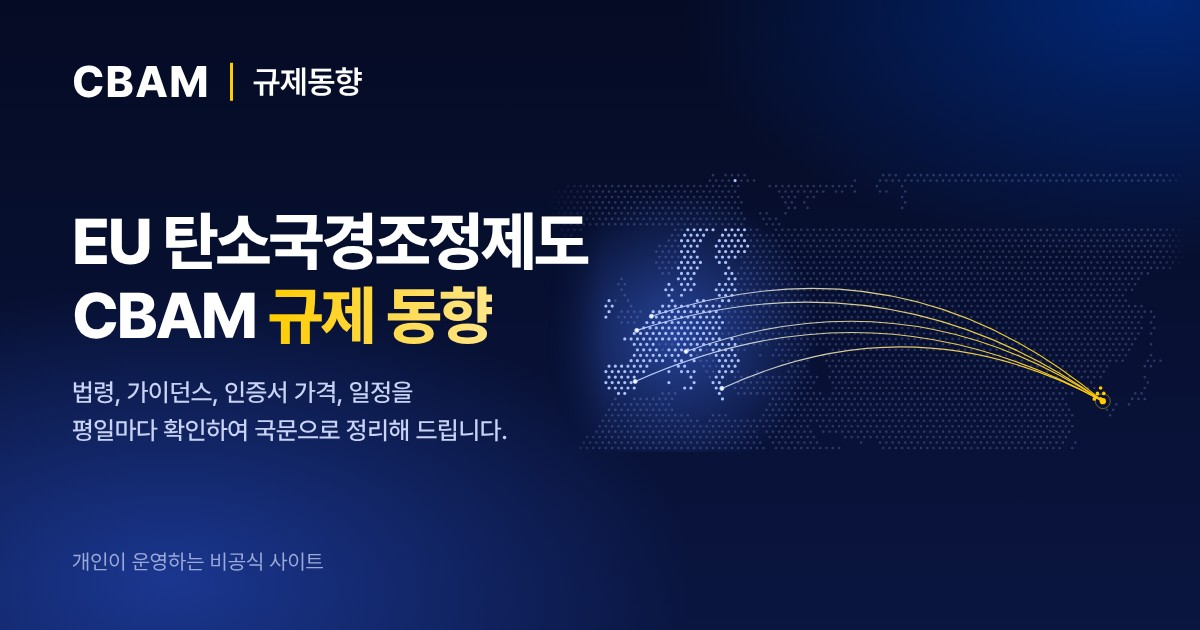
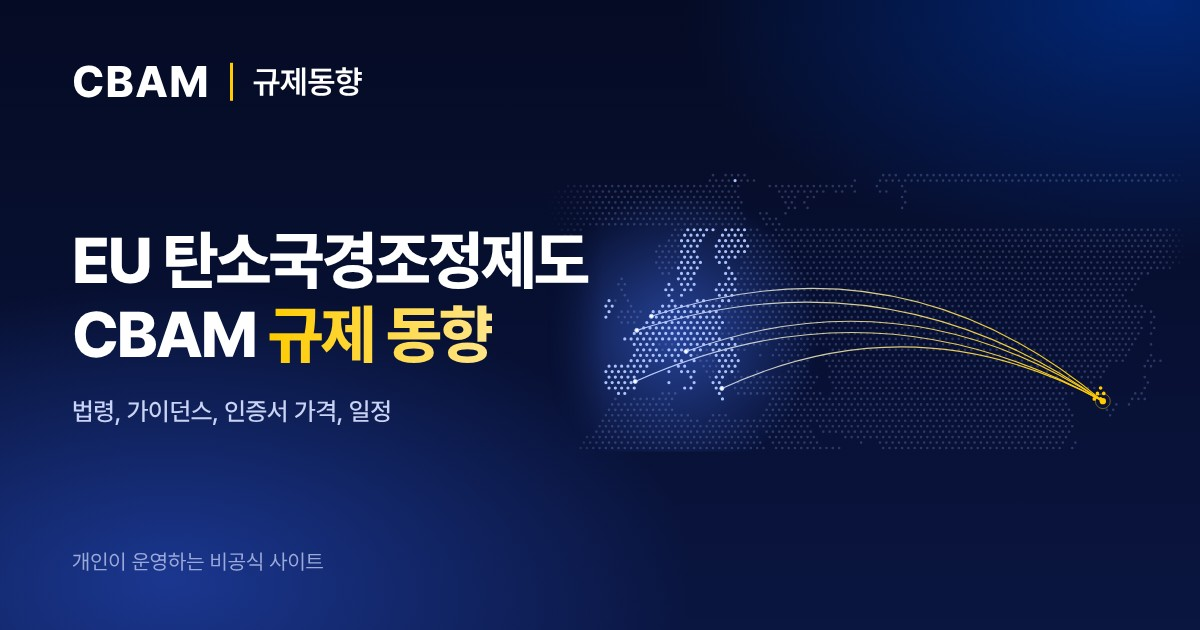
첫 화면 소개 글에서 '평일마다 확인하여 국문으로 정리해 드립니다'를 뺌(사용자 지시). 다루는 것만 남김: 법령, 가이던스, 인증서 가격, 일정
공유 미리보기 그림도 같은 글로 다시 만듦.

Claude-Session: https://claude.ai/code/session_012Knzacgts1tPR5cwGF12g6

Changed region(s): [[0.0617, 0.3317, 0.4933, 0.573], [0.0617, 0.6032, 0.4317, 0.7238]]

diff --git a/site/js/views/home/hero.js b/site/js/views/home/hero.js
@@ -10,7 +10,7 @@ export function hero(book, events, items, dated) {
     h("div", { class: "hero-copy" }, [
       h("p", { class: "hero-fresh", "data-fresh": "" }),
       h("h1", {}, ["EU 탄소국경조정제도", h("br"), "CBAM ", h("span", { class: "hl", text: "규제 동향" })]),
-      h("p", { class: "hero-lead", text: "법령, 가이던스, 인증서 가격, 일정을 평일마다 확인하여 국문으로 정리해 드립니다." }),
+      h("p", { class: "hero-lead", text: "법령, 가이던스, 인증서 가격, 일정" }),
       h("div", { class: "hero-actions" }, [
         h("a", { class: "btn btn-main", href: "#news", text: "새 소식 보기" }),
         h("a", { class: "btn btn-ghost", href: "#price", text: "인증서 가격 보기" }),

diff --git a/tools/art/social.html b/tools/art/social.html
@@ -37,7 +37,7 @@
   <div id="art"></div>
   <div class="copy">
     <h1>EU 탄소국경조정제도<br>CBAM <span>규제 동향</span></h1>
-    <p class="lead">법령, 가이던스, 인증서 가격, 일정을<br>평일마다 확인하여 국문으로 정리해 드립니다.</p>
+    <p class="lead">법령, 가이던스, 인증서 가격, 일정</p>
   </div>
   <div class="foot">개인이 운영하는 비공식 사이트</div>
 </div>
